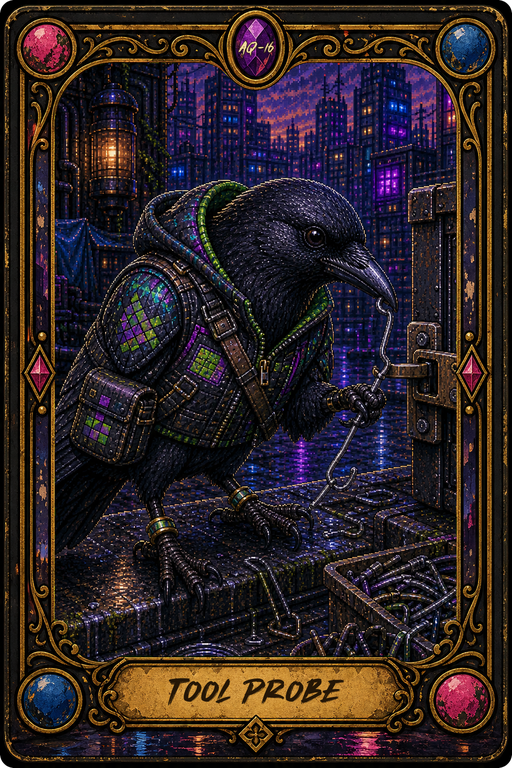
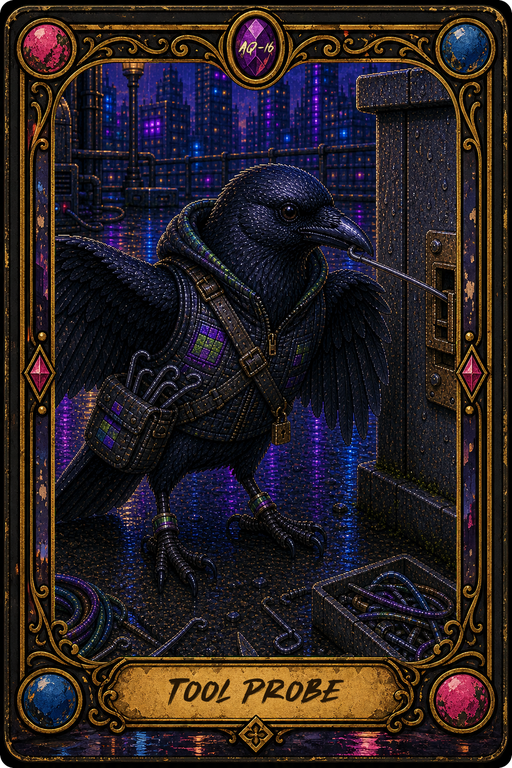
Compose market with generated shop art

diff --git a/src/main.ts b/src/main.ts
@@ -437,6 +437,11 @@ const battlefieldVariantRuntimeArtUrls = import.meta.glob('../assets/runtime/bac
   query: '?url',
   import: 'default',
 }) as Record<string, string>;
+const marketKitRuntimeArtUrls = import.meta.glob('../assets/runtime/market-kit/*.webp', {
+  eager: true,
+  query: '?url',
+  import: 'default',
+}) as Record<string, string>;
 
 function battlefieldVariantAsset(filename: string, key: string): RuntimeImageAsset {
   return {
@@ -445,6 +450,21 @@ function battlefieldVariantAsset(filename: string, key: string): RuntimeImageAss
       ?? `/assets/runtime/backdrops/variants/${filename}`
   };
 }
+
+function marketKitAsset(filename: string, key: string): RuntimeImageAsset {
+  return {
+    key,
+    url: marketKitRuntimeArtUrls[`../assets/runtime/market-kit/${filename}`]
+      ?? `/assets/runtime/market-kit/${filename}`
+  };
+}
+
+const MARKET_KIT_ASSETS = {
+  background: marketKitAsset('bird-market-background-v1.webp', 'market-kit-background'),
+  shopkeeper: marketKitAsset('starling-shopkeeper-v1.webp', 'market-kit-shopkeeper-starling'),
+  sign: marketKitAsset('bird-market-sign-v1.webp', 'market-kit-sign'),
+  counter: marketKitAsset('market-counter-wares-v1.webp', 'market-kit-counter-wares')
+};
 
 const BATTLEFIELD_ASSETS: Record<string, RuntimeImageAsset> = {
   map_01_rooftop_blocks: {
@@ -473,7 +493,7 @@ const BATTLEFIELD_BOSS_VARIANTS: Partial<Record<string, RuntimeImageAsset>> = {
 };
 const ROUTE_EVENT_BACKDROP_ASSETS: Partial<Record<RouteNode['type'], RuntimeImageAsset>> = {
   cache: battlefieldVariantAsset('rooftop-blocks-cache-billboard-v1.webp', 'route-event-cache-billboard'),
-  market: battlefieldVariantAsset('canal-markets-supply-market-v1.webp', 'route-event-supply-market'),
+  market: MARKET_KIT_ASSETS.background,
   signal: battlefieldVariantAsset('signal-spires-signal-relay-v1.webp', 'route-event-signal-relay'),
   nest: battlefieldVariantAsset('high-roost-workshop-prep-v1.webp', 'route-event-workshop-prep')
 };
@@ -2658,6 +2678,15 @@ class RouteScene extends Phaser.Scene {
     );
   }
 
+  private queueMarketKitArtLoad() {
+    queueRuntimeImageAssets(
+      this,
+      Object.values(MARKET_KIT_ASSETS),
+      'Market kit art failed to load',
+      () => this.renderAll()
+    );
+  }
+
   private renderRouteEventBackdrop(node?: RouteNode, opacity = 0.74) {
     this.queueRouteEventBackdropArtLoad(node);
     const asset = this.routeEventBackdropAsset(node);
@@ -3737,6 +3766,7 @@ class RouteScene extends Phaser.Scene {
   }
 
   private renderMarketOverlay() {
+    this.queueMarketKitArtLoad();
     this.queueOptionalCardArtLoad();
     const node = currentMap().nodes.find((candidate) => candidate.id === this.marketNodeId);
     this.renderRouteEventBackdrop(node, 0.86);
@@ -3786,79 +3816,96 @@ class RouteScene extends Phaser.Scene {
   }
 
   private renderMarketSceneBackdrop(frame: { left: number; right: number; top: number; bottom: number; cx: number; w: number }) {
-    this.add.rectangle(frame.cx, frame.top + 360, frame.w - 86, 390, 0x080604, 0.42)
-      .setStrokeStyle(1, UI_FIELD.gold, 0.2);
-    this.add.rectangle(frame.cx, frame.top + 168, frame.w - 116, 22, 0x241708, 0.86)
-      .setStrokeStyle(1, UI_FIELD.gold, 0.52);
-    for (let i = 0; i < 15; i += 1) {
-      const bx = frame.left + 170 + i * 55;
-      this.add.rectangle(bx, frame.top + 169, 28, 22, i % 2 === 0 ? 0xd8a840 : 0x111923, i % 2 === 0 ? 0.38 : 0.72);
+    const backgroundKey = MARKET_KIT_ASSETS.background.key;
+    const signKey = MARKET_KIT_ASSETS.sign.key;
+    const counterKey = MARKET_KIT_ASSETS.counter.key;
+    const hasBackground = this.textures.exists(backgroundKey);
+
+    if (hasBackground) {
+      this.add.image(frame.cx, frame.top + 330, backgroundKey)
+        .setDisplaySize(frame.w - 46, 500)
+        .setAlpha(0.78);
+      this.add.rectangle(frame.cx, frame.top + 330, frame.w - 46, 500, 0x020409, 0.2);
+    } else {
+      this.add.rectangle(frame.cx, frame.top + 360, frame.w - 86, 390, 0x080604, 0.42)
+        .setStrokeStyle(1, UI_FIELD.gold, 0.2);
+      for (let i = 0; i < 17; i += 1) {
+        const lx = frame.left + 118 + i * 52;
+        this.add.line(lx - 24, frame.top + 210, 0, 0, 48, i % 2 === 0 ? 8 : -3, UI_FIELD.gold, 0.34);
+        this.add.circle(lx, frame.top + 213 + (i % 2) * 7, 4, i % 3 === 0 ? 0x8df4ff : 0xf0c36f, 0.86);
+      }
     }
-    for (let i = 0; i < 17; i += 1) {
-      const lx = frame.left + 118 + i * 52;
-      this.add.line(lx - 24, frame.top + 210, 0, 0, 48, i % 2 === 0 ? 8 : -3, UI_FIELD.gold, 0.34);
-      this.add.circle(lx, frame.top + 213 + (i % 2) * 7, 4, i % 3 === 0 ? 0x8df4ff : 0xf0c36f, 0.86);
+
+    if (this.textures.exists(signKey)) {
+      this.add.image(frame.cx, frame.top + 172, signKey)
+        .setDisplaySize(456, 257)
+        .setAlpha(0.9);
+    } else {
+      this.add.rectangle(frame.cx, frame.top + 168, 456, 58, 0x241708, 0.86)
+        .setStrokeStyle(1, UI_FIELD.gold, 0.52);
     }
-    this.add.rectangle(frame.cx + 26, frame.bottom - 108, frame.w - 164, 128, 0x130c06, 0.96)
-      .setStrokeStyle(2, 0x7b4f18, 0.88);
-    this.add.rectangle(frame.cx + 26, frame.bottom - 166, frame.w - 138, 18, 0x321f0d, 0.98)
-      .setStrokeStyle(1, UI_FIELD.gold, 0.48);
-    this.add.rectangle(frame.cx + 26, frame.bottom - 64, frame.w - 186, 14, 0x070b12, 0.42);
-    for (let i = 0; i < 8; i += 1) {
-      this.add.rectangle(frame.left + 274 + i * 96, frame.bottom - 108, 2, 112, 0x2b1a0a, 0.7);
+
+    if (this.textures.exists(counterKey)) {
+      this.add.image(frame.cx + 44, frame.bottom + 8, counterKey)
+        .setOrigin(0.5, 1)
+        .setDisplaySize(936, 499)
+        .setAlpha(0.5);
+    } else {
+      this.add.rectangle(frame.cx + 26, frame.bottom - 108, frame.w - 164, 128, 0x130c06, 0.96)
+        .setStrokeStyle(2, 0x7b4f18, 0.88);
+      this.add.rectangle(frame.cx + 26, frame.bottom - 166, frame.w - 138, 18, 0x321f0d, 0.98)
+        .setStrokeStyle(1, UI_FIELD.gold, 0.48);
     }
-    this.add.text(frame.left + 314, frame.top + 188, 'CARD RACK', {
-      fontFamily: 'Arial',
-      fontSize: '11px',
-      fontStyle: 'bold',
-      color: '#8df4ff'
-    });
-    this.add.text(frame.left + 320, frame.bottom - 206, 'WAYMARK TRAY', {
-      fontFamily: 'Arial',
-      fontSize: '11px',
-      fontStyle: 'bold',
-      color: '#8df4ff'
-    });
-    this.add.text(frame.right - 296, frame.top + 188, 'SERVICE SIGNS', {
-      fontFamily: 'Arial',
-      fontSize: '11px',
-      fontStyle: 'bold',
-      color: '#8df4ff'
-    });
+
+    this.add.rectangle(frame.left + 588, frame.top + 316, 664, 258, 0x020409, 0.46)
+      .setStrokeStyle(1, UI_FIELD.gold, 0.18);
+    this.add.rectangle(frame.left + 506, frame.bottom - 84, 384, 142, 0x05080e, 0.58)
+      .setStrokeStyle(1, UI_FIELD.gold, 0.24);
+    this.add.rectangle(frame.right - 146, frame.top + 440, 282, 366, 0x020409, 0.5)
+      .setStrokeStyle(1, UI_FIELD.cyan, 0.18);
+    this.add.rectangle(frame.left + 108, frame.top + 238, 190, 250, 0x020409, 0.34)
+      .setStrokeStyle(1, UI_FIELD.gold, 0.16);
   }
 
   private renderMarketVendor(frame: { left: number; top: number; bottom: number }) {
-    const x = frame.left + 166;
-    const y = frame.bottom - 206;
-    this.add.rectangle(x, y + 54, 112, 150, 0x0b1018, 0.98)
+    const x = frame.left + 196;
+    const y = frame.bottom - 34;
+    const shopkeeperKey = MARKET_KIT_ASSETS.shopkeeper.key;
+    if (this.textures.exists(shopkeeperKey)) {
+      this.add.ellipse(x + 4, y - 14, 184, 32, 0x020409, 0.5);
+      this.add.image(x, y, shopkeeperKey)
+        .setOrigin(0.5, 1)
+        .setDisplaySize(248, 372)
+        .setAlpha(0.98);
+      this.add.rectangle(x, frame.bottom - 108, 180, 48, 0x070b12, 0.78)
+        .setStrokeStyle(1, UI_FIELD.gold, 0.42);
+      this.add.text(x, frame.bottom - 121, 'Veyra Tallybright', {
+        fontFamily: 'Arial',
+        fontSize: '14px',
+        fontStyle: 'bold',
+        color: '#ffe1a3',
+        stroke: '#020409',
+        strokeThickness: 3
+      }).setOrigin(0.5, 0);
+      this.add.text(x, frame.bottom - 102, 'canal curator', {
+        fontFamily: 'Arial',
+        fontSize: '10px',
+        fontStyle: 'bold',
+        color: '#8df4ff'
+      }).setOrigin(0.5, 0);
+      return;
+    }
+
+    const fallbackY = frame.bottom - 206;
+    this.add.rectangle(x, fallbackY + 54, 112, 150, 0x0b1018, 0.98)
       .setStrokeStyle(2, UI_FIELD.gold, 0.62);
-    this.add.circle(x, y - 28, 44, 0x1b2630, 0.98)
+    this.add.circle(x, fallbackY - 28, 44, 0x1b2630, 0.98)
       .setStrokeStyle(2, UI_FIELD.cyan, 0.68);
-    this.add.circle(x - 16, y - 34, 7, 0xf0c36f, 0.95);
-    this.add.circle(x + 18, y - 34, 7, 0xf0c36f, 0.95);
-    this.add.rectangle(x, y - 6, 72, 12, 0xf0c36f, 0.76);
-    this.add.rectangle(x - 52, y + 42, 18, 88, 0xd8a840, 0.52).setAngle(-16);
-    this.add.rectangle(x + 52, y + 42, 18, 88, 0xd8a840, 0.52).setAngle(16);
-    this.add.rectangle(x, y + 118, 156, 40, 0x261808, 0.98)
-      .setStrokeStyle(1, UI_FIELD.gold, 0.58);
-    this.add.text(x, y + 108, 'OPEN', {
-      fontFamily: 'Arial',
-      fontSize: '18px',
-      fontStyle: 'bold',
-      color: '#ffe1a3',
-      stroke: '#020409',
-      strokeThickness: 3
-    }).setOrigin(0.5, 0);
-    this.add.rectangle(x - 8, y - 100, 132, 48, 0x0a1018, 0.88)
-      .setStrokeStyle(1, UI_FIELD.gold, 0.54);
-    this.add.text(x - 66, y - 112, 'Trade for the road.', {
-      fontFamily: 'Arial',
-      fontSize: '13px',
-      fontStyle: 'bold',
-      color: '#ffe1a3',
-      wordWrap: { width: 116 },
-      maxLines: 2
-    });
+    this.add.circle(x - 16, fallbackY - 34, 7, 0xf0c36f, 0.95);
+    this.add.circle(x + 18, fallbackY - 34, 7, 0xf0c36f, 0.95);
+    this.add.rectangle(x, fallbackY - 6, 72, 12, 0xf0c36f, 0.76);
+    this.add.rectangle(x - 52, fallbackY + 42, 18, 88, 0xd8a840, 0.52).setAngle(-16);
+    this.add.rectangle(x + 52, fallbackY + 42, 18, 88, 0xd8a840, 0.52).setAngle(16);
   }
 
   private renderMarketRefreshSign(x: number, y: number, cost: number, enabled: boolean) {

diff --git a/tests/smoke.spec.ts b/tests/smoke.spec.ts
@@ -533,7 +533,7 @@ test('route event overlays render generated special-node backdrops', async ({ pa
     const wait = (ms: number) => new Promise((resolve) => setTimeout(resolve, ms));
     const g = window.__birdSquadGame;
     const cases = [
-      { type: 'market', key: 'route-event-supply-market' },
+      { type: 'market', key: 'market-kit-background' },
       { type: 'cache', key: 'route-event-cache-billboard' },
       { type: 'signal', key: 'route-event-signal-relay' },
       { type: 'nest', key: 'route-event-workshop-prep' }
@@ -591,7 +591,7 @@ test('route event overlays render generated special-node backdrops', async ({ pa
   });
 
   expect(result).toEqual([
-    expect.objectContaining({ type: 'market', stateKey: 'route-event-supply-market', textureLoaded: true, rendered: true }),
+    expect.objectContaining({ type: 'market', stateKey: 'market-kit-background', textureLoaded: true, rendered: true }),
     expect.objectContaining({ type: 'cache', stateKey: 'route-event-cache-billboard', textureLoaded: true, rendered: true }),
     expect.objectContaining({ type: 'signal', stateKey: 'route-event-signal-relay', textureLoaded: true, rendered: true }),
     expect.objectContaining({ type: 'nest', stateKey: 'route-event-workshop-prep', textureLoaded: true, rendered: true })
@@ -790,6 +790,43 @@ test('market shelves stock multiple finite offers and paid refreshes', async ({ 
   expect(result.refreshCount).toBe(1);
   expect(result.scrapAfterRefresh).toBe(result.scrapAfterBuy - result.beforeRefreshCost);
   expect(result.refreshedCardOffers.every((offer: any) => !offer.sold)).toBe(true);
+});
+
+test('market overlay renders generated shopkeeper sign and counter kit', async ({ page }) => {
+  await boot(page);
+  const result = await page.evaluate(async () => {
+    const wait = (ms: number) => new Promise((resolve) => setTimeout(resolve, ms));
+    const g = window.__birdSquadGame;
+    g.scene.start('RouteScene', {});
+    g.scene.stop('MenuScene');
+    const scene: any = g.scene.getScene('RouteScene');
+    scene.runState.scrap = 999;
+    const market = window.__birdSquadCurrentMap!().nodes.find((n: any) => n.type === 'market')
+      ?? window.__birdSquadCurrentMap!().nodes[0];
+    market.type = 'market';
+    scene.openMarketNode(market);
+    const keys = [
+      'market-kit-background',
+      'market-kit-shopkeeper-starling',
+      'market-kit-sign',
+      'market-kit-counter-wares'
+    ];
+    for (let i = 0; i < 80; i += 1) {
+      const loaded = keys.every((key) => scene.textures.exists(key));
+      const rendered = keys.every((key) => scene.children.list.some((child: any) => child.texture?.key === key));
+      if (loaded && rendered) break;
+      await wait(50);
+    }
+    return Object.fromEntries(keys.map((key) => [key, {
+      loaded: scene.textures.exists(key),
+      rendered: scene.children.list.some((child: any) => child.texture?.key === key)
+    }]));
+  });
+
+  expect(result['market-kit-background']).toEqual({ loaded: true, rendered: true });
+  expect(result['market-kit-shopkeeper-starling']).toEqual({ loaded: true, rendered: true });
+  expect(result['market-kit-sign']).toEqual({ loaded: true, rendered: true });
+  expect(result['market-kit-counter-wares']).toEqual({ loaded: true, rendered: true });
 });
 
 test('card choice surfaces expose full card details on hover', async ({ page }) => {

diff --git a/progress.md b/progress.md
@@ -217,3 +217,5 @@ Original prompt: make it happen, can you wire the found artifacts in an appropri
 - Promoted the 16 new Aviary final cards into `.generated/imagegen/tarot/selected`, approved their runtime manifest entries, and rebuilt optimized portrait/thumb/icon WebP assets for the game.
 - Verification: Aviary composite validation, center/final contact sheets, `npm run build:runtime-card-art`, `npm run validate`, `npm run build`, `npm test`, full `npx playwright test tests/smoke.spec.ts` (60/60 passed), and a local Playwright menu smoke against Vite dev server passed. QA outputs live under `tmp/qa/aviary/2026-06-17-aviary-master-border-expansion-v1/`.
 - Aviary art anatomy correction: replaced `aviary_33` / Cache Memory because the first Pinyon Jay art had a hand-like lifted limb near the cache. The corrected card keeps both feet planted below the body and holds the cache only in the beak, then was recomposited, promoted, and rebuilt into runtime WebP assets. Verification: `npm run validate:aviary-composites`, `npm run validate:runtime-assets`, `npm run build`, and `npm run validate`.
+- Aviary art two-wing correction: regenerated `aviary_30` / Underwing Shelter, `aviary_39` / Reed Balance, and `aviary_43` / Tool Probe with clearer two-wing silhouettes and no wing-hand prop interactions. The corrected centers were recomposited under the shared `master.png` border, promoted to selected art, and rebuilt into portrait/thumb/icon WebP runtime assets.
+- Market art composition pass: generated runtime-sized market-kit assets from the concept outputs, wired the market node to use the new landmark backdrop, and composed the in-game shop with the transparent starling shopkeeper, hanging sign, and counter/wares layers while preserving existing purchase interactions. Verification: `npm run build`, `npm run validate:runtime`, `npm run validate:runtime-assets`, `npm run validate:bundle-size`, focused market Playwright smoke tests, the required web-game client, and screenshot review at `.artifacts/test-results/market-kit-in-game.png`.

diff --git a/AGENTS.md b/AGENTS.md
@@ -1,7 +1,7 @@
 <claude-mem-context>
 # Memory Context
 
-# [project-bird-squad] recent context, 2026-06-17 6:39am CDT
+# [project-bird-squad] recent context, 2026-06-17 7:31am CDT
 
 Legend: 🎯session 🔴bugfix 🟣feature 🔄refactor ✅change 🔵discovery ⚖decision 🚨security_alert 🔐security_note
 Format: ID TIME TYPE TITLE
